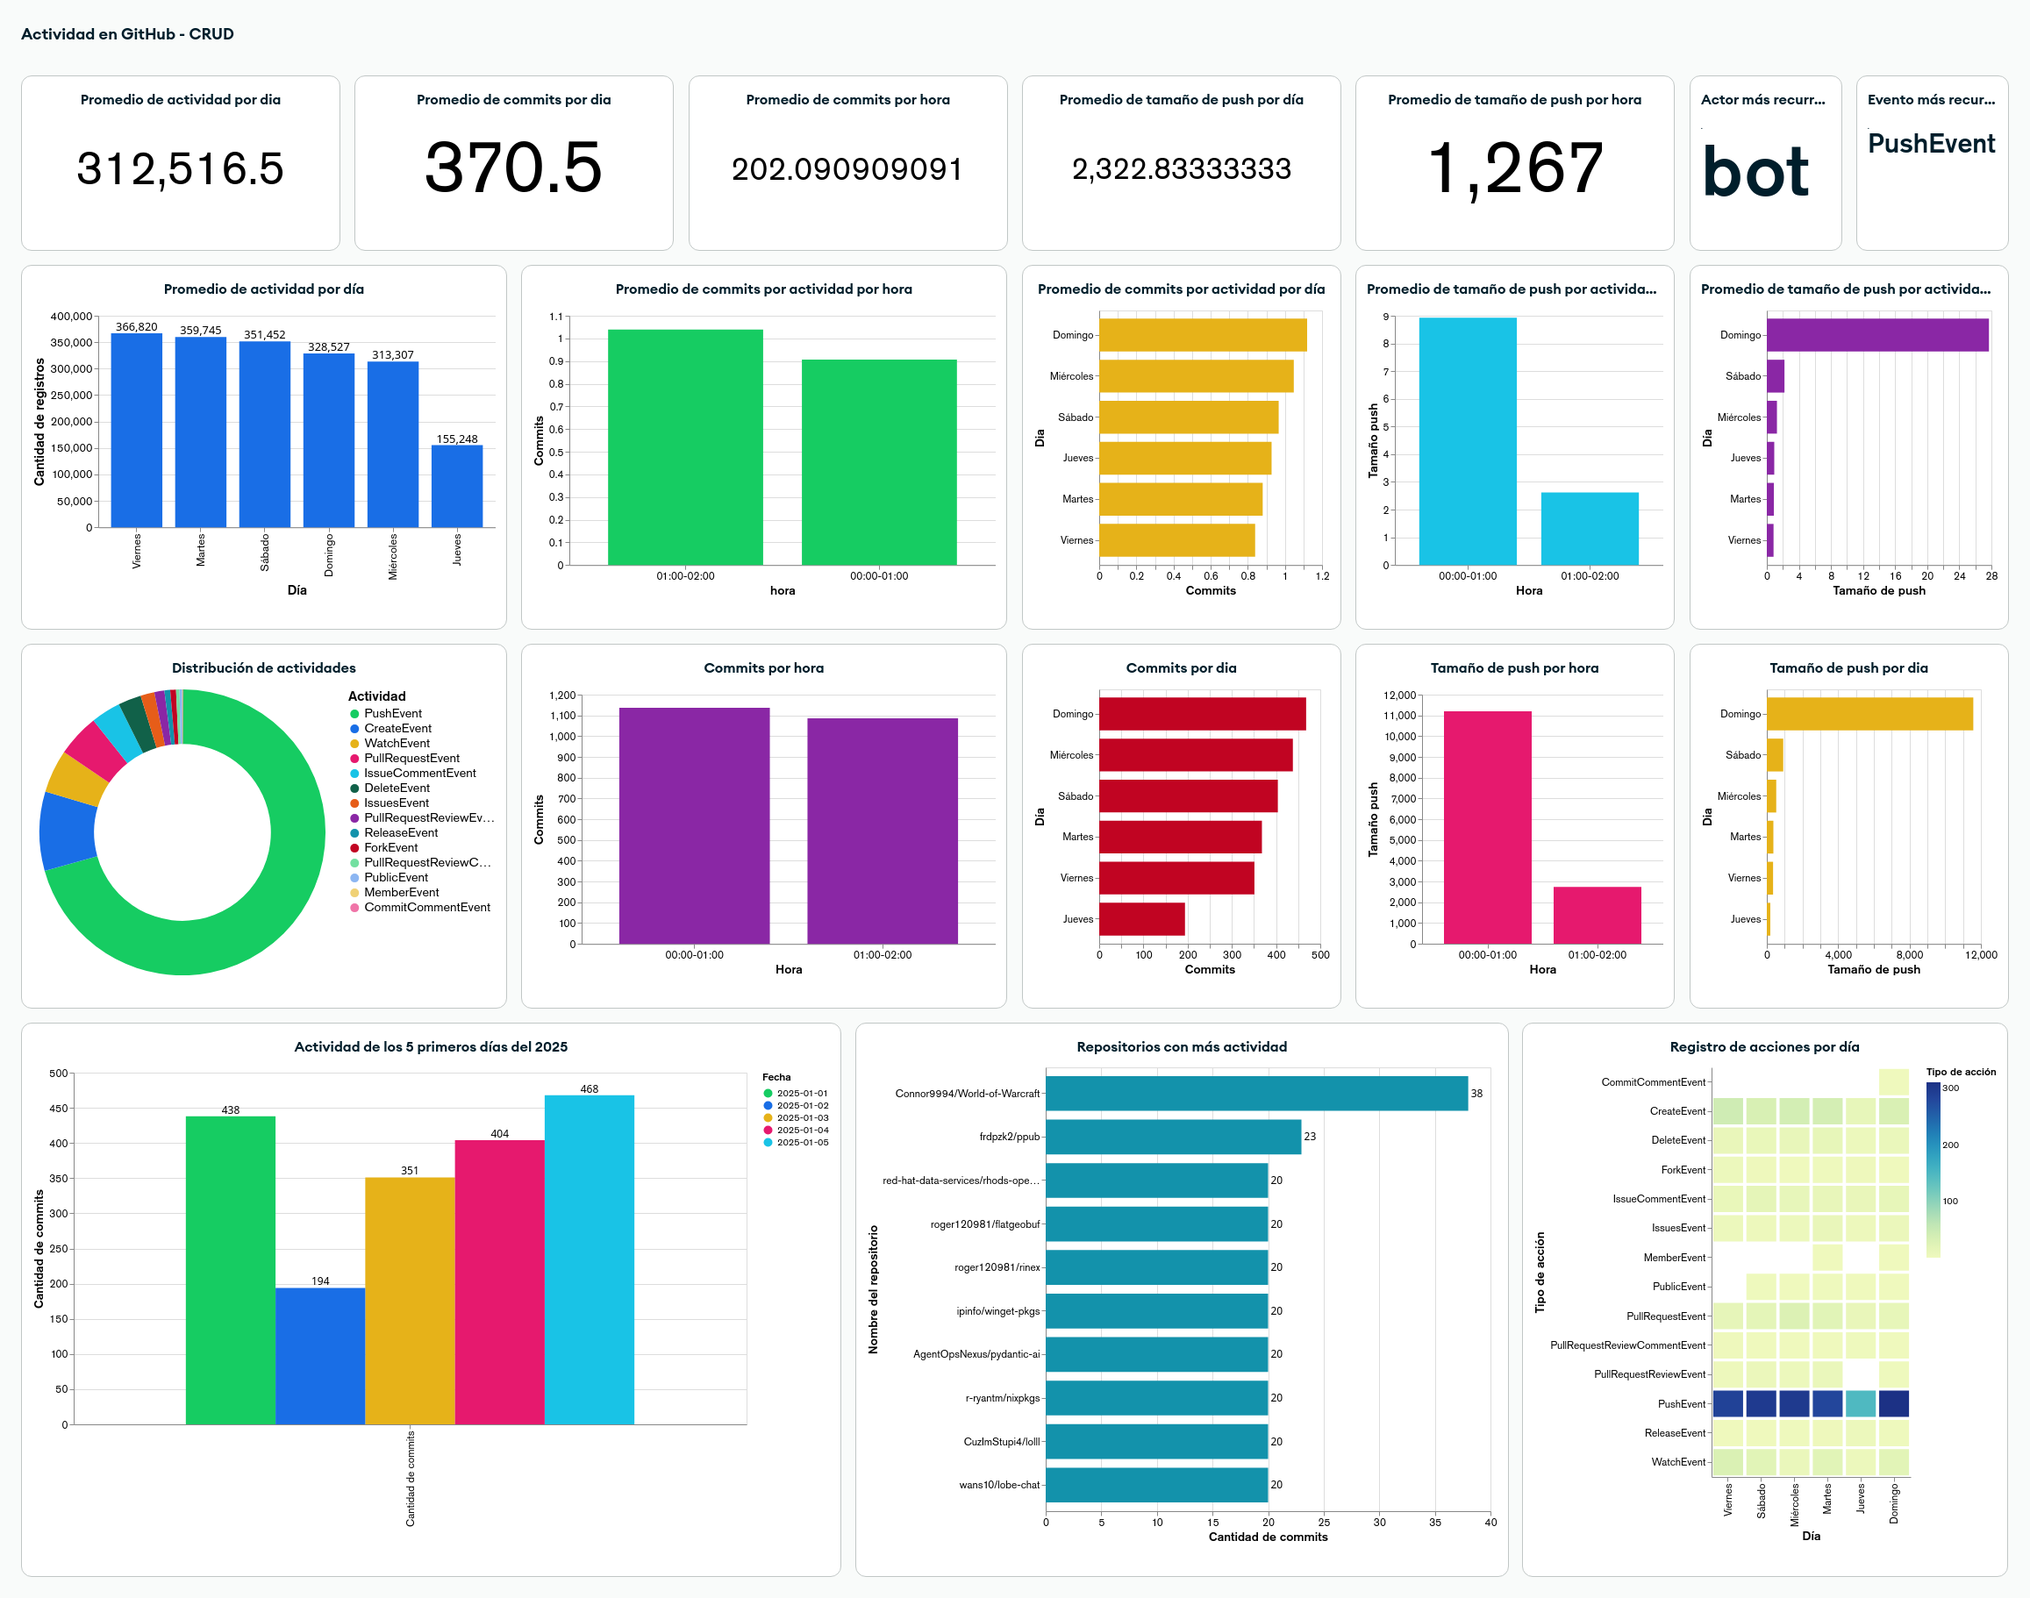
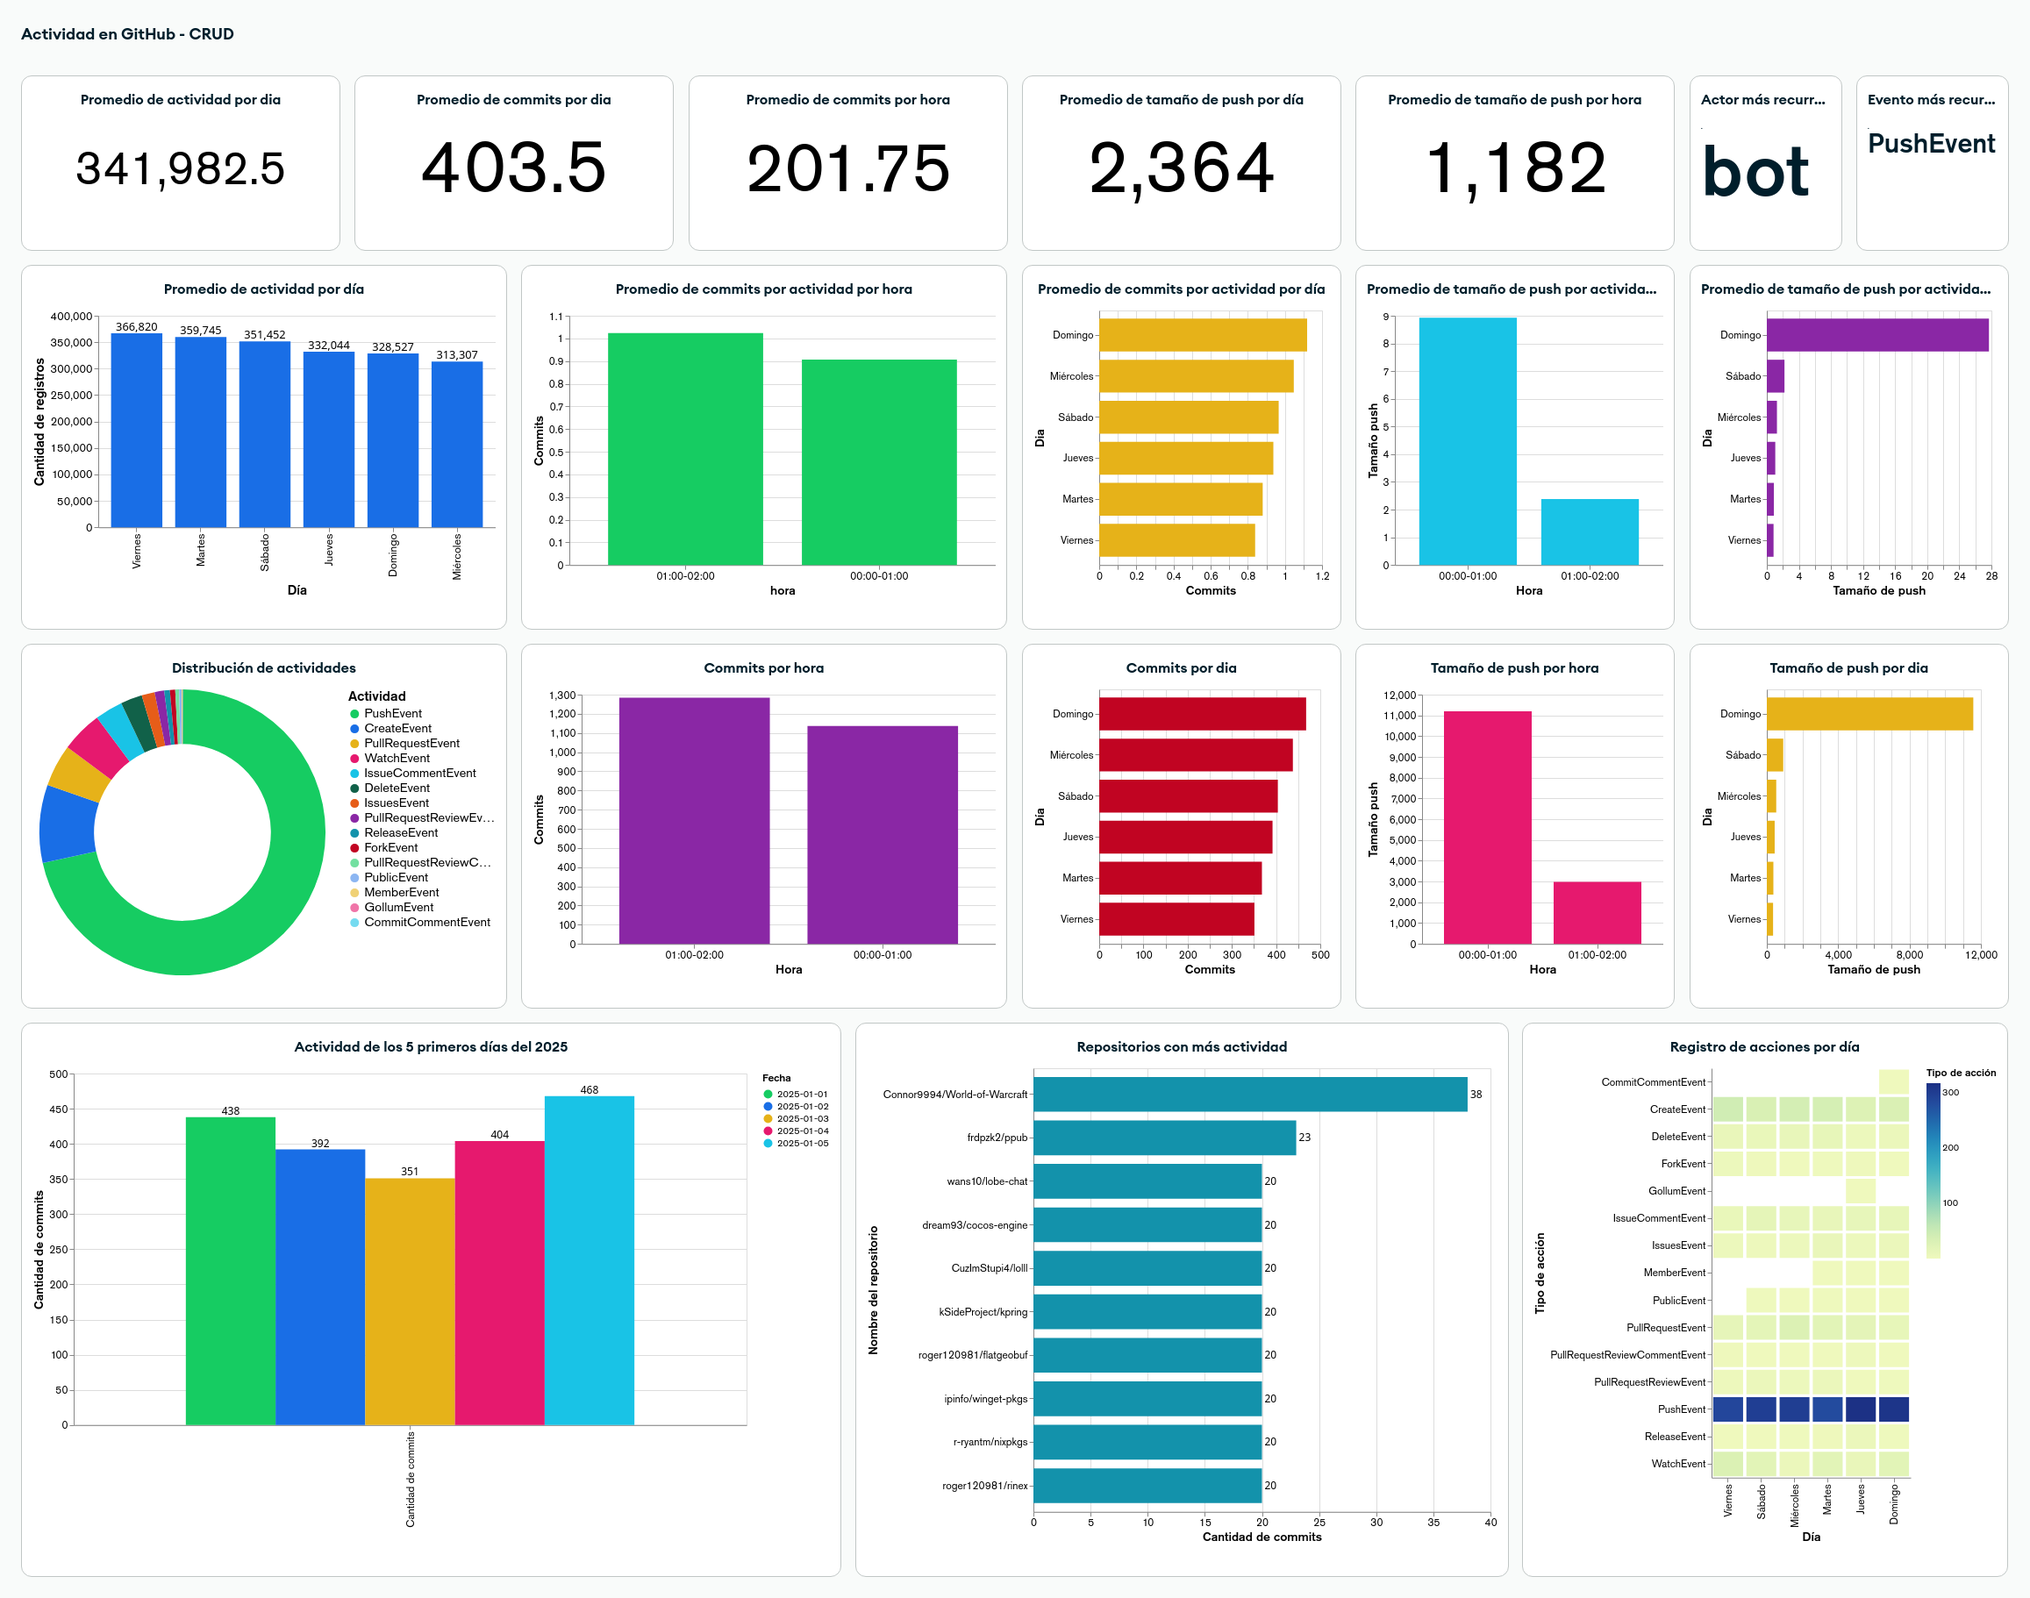
correcion final

diff --git a/crud/mongo_crud.html b/crud/mongo_crud.html
@@ -7628,7 +7628,7 @@ Note: you may need to restart the kernel to use updated packages.
 <div class="jp-Collapser jp-InputCollapser jp-Cell-inputCollapser">
 </div>
 <div class="jp-InputArea jp-Cell-inputArea">
-<div class="jp-InputPrompt jp-InputArea-prompt">In [49]:</div>
+<div class="jp-InputPrompt jp-InputArea-prompt">In [76]:</div>
 <div class="jp-CodeMirrorEditor jp-Editor jp-InputArea-editor" data-type="inline">
 <div class="cm-editor cm-s-jupyter">
 <div class="highlight hl-ipython3"><pre><span></span><span class="n">load_dotenv</span><span class="p">()</span>
@@ -7662,7 +7662,7 @@ Note: you may need to restart the kernel to use updated packages.
 <div class="jp-Collapser jp-InputCollapser jp-Cell-inputCollapser">
 </div>
 <div class="jp-InputArea jp-Cell-inputArea">
-<div class="jp-InputPrompt jp-InputArea-prompt">In [50]:</div>
+<div class="jp-InputPrompt jp-InputArea-prompt">In [77]:</div>
 <div class="jp-CodeMirrorEditor jp-Editor jp-InputArea-editor" data-type="inline">
 <div class="cm-editor cm-s-jupyter">
 <div class="highlight hl-ipython3"><pre><span></span><span class="n">db</span> <span class="o">=</span> <span class="n">client</span><span class="p">[</span><span class="s2">"ProyectoBD-crud"</span><span class="p">]</span>
@@ -8453,14 +8453,14 @@ Cantidad: 2093 - Se imprime uno solo
 <div class="jp-Collapser jp-InputCollapser jp-Cell-inputCollapser">
 </div>
 <div class="jp-InputArea jp-Cell-inputArea">
-<div class="jp-InputPrompt jp-InputArea-prompt">In [61]:</div>
+<div class="jp-InputPrompt jp-InputArea-prompt">In [ ]:</div>
 <div class="jp-CodeMirrorEditor jp-Editor jp-InputArea-editor" data-type="inline">
 <div class="cm-editor cm-s-jupyter">
 <div class="highlight hl-ipython3"><pre><span></span><span class="n">result</span> <span class="o">=</span> <span class="n">dias</span><span class="o">.</span><span class="n">delete_many</span><span class="p">({</span><span class="s2">"dia"</span><span class="p">:</span> <span class="s2">"Lunes"</span><span class="p">})</span>
 <span class="nb">print</span><span class="p">(</span><span class="sa">f</span><span class="s2">"Dias eliminados: </span><span class="si">{</span><span class="n">result</span><span class="o">.</span><span class="n">deleted_count</span><span class="si">}</span><span class="s2">"</span><span class="p">)</span>
 
 <span class="n">dias_eliminados</span> <span class="o">=</span> <span class="n">dias</span><span class="o">.</span><span class="n">count_documents</span><span class="p">({</span><span class="s2">"dia"</span><span class="p">:</span> <span class="p">{</span><span class="s2">"$eq"</span><span class="p">:</span> <span class="s2">"Lunes"</span><span class="p">}})</span>
-<span class="nb">print</span><span class="p">(</span><span class="sa">f</span><span class="s2">"Lunes luego de eliminación </span><span class="si">{</span><span class="n">dias_eliminados</span><span class="si">}</span><span class="s2">"</span><span class="p">)</span>
+<span class="nb">print</span><span class="p">(</span><span class="sa">f</span><span class="s2">"Lunes luego de eliminación: </span><span class="si">{</span><span class="n">dias_eliminados</span><span class="si">}</span><span class="s2">"</span><span class="p">)</span>
 </pre></div>
 </div>
 </div>
@@ -8498,14 +8498,14 @@ Lunes luego de eliminación 0
 <div class="jp-Collapser jp-InputCollapser jp-Cell-inputCollapser">
 </div>
 <div class="jp-InputArea jp-Cell-inputArea">
-<div class="jp-InputPrompt jp-InputArea-prompt">In [62]:</div>
+<div class="jp-InputPrompt jp-InputArea-prompt">In [ ]:</div>
 <div class="jp-CodeMirrorEditor jp-Editor jp-InputArea-editor" data-type="inline">
 <div class="cm-editor cm-s-jupyter">
 <div class="highlight hl-ipython3"><pre><span></span><span class="n">result</span> <span class="o">=</span> <span class="n">metricas</span><span class="o">.</span><span class="n">delete_many</span><span class="p">({</span><span class="s2">"dia"</span><span class="p">:</span> <span class="s2">"Lunes"</span><span class="p">})</span>
 <span class="nb">print</span><span class="p">(</span><span class="sa">f</span><span class="s2">"Metricas eliminadas: </span><span class="si">{</span><span class="n">result</span><span class="o">.</span><span class="n">deleted_count</span><span class="si">}</span><span class="s2">"</span><span class="p">)</span>
 
 <span class="n">metricas_eliminadas</span> <span class="o">=</span> <span class="n">metricas</span><span class="o">.</span><span class="n">count_documents</span><span class="p">({</span><span class="s2">"dia"</span><span class="p">:</span> <span class="p">{</span><span class="s2">"$eq"</span><span class="p">:</span> <span class="s2">"Lunes"</span><span class="p">}})</span>
-<span class="nb">print</span><span class="p">(</span><span class="sa">f</span><span class="s2">"Lunes luego de eliminación </span><span class="si">{</span><span class="n">metricas_eliminadas</span><span class="si">}</span><span class="s2">"</span><span class="p">)</span>
+<span class="nb">print</span><span class="p">(</span><span class="sa">f</span><span class="s2">"Lunes luego de eliminación: </span><span class="si">{</span><span class="n">metricas_eliminadas</span><span class="si">}</span><span class="s2">"</span><span class="p">)</span>
 </pre></div>
 </div>
 </div>
@@ -8543,14 +8543,14 @@ Lunes luego de eliminación 0
 <div class="jp-Collapser jp-InputCollapser jp-Cell-inputCollapser">
 </div>
 <div class="jp-InputArea jp-Cell-inputArea">
-<div class="jp-InputPrompt jp-InputArea-prompt">In [63]:</div>
+<div class="jp-InputPrompt jp-InputArea-prompt">In [ ]:</div>
 <div class="jp-CodeMirrorEditor jp-Editor jp-InputArea-editor" data-type="inline">
 <div class="cm-editor cm-s-jupyter">
 <div class="highlight hl-ipython3"><pre><span></span><span class="n">result</span> <span class="o">=</span> <span class="n">registros</span><span class="o">.</span><span class="n">delete_many</span><span class="p">({</span><span class="s2">"dia"</span><span class="p">:</span> <span class="s2">"Lunes"</span><span class="p">})</span>
 <span class="nb">print</span><span class="p">(</span><span class="sa">f</span><span class="s2">"Registros eliminados: </span><span class="si">{</span><span class="n">result</span><span class="o">.</span><span class="n">deleted_count</span><span class="si">}</span><span class="s2">"</span><span class="p">)</span>
 
 <span class="n">registros_eliminados</span> <span class="o">=</span> <span class="n">registros</span><span class="o">.</span><span class="n">count_documents</span><span class="p">({</span><span class="s2">"dia"</span><span class="p">:</span> <span class="p">{</span><span class="s2">"$eq"</span><span class="p">:</span> <span class="s2">"Lunes"</span><span class="p">}})</span>
-<span class="nb">print</span><span class="p">(</span><span class="sa">f</span><span class="s2">"Lunes luego de eliminación </span><span class="si">{</span><span class="n">registros_eliminados</span><span class="si">}</span><span class="s2">"</span><span class="p">)</span>
+<span class="nb">print</span><span class="p">(</span><span class="sa">f</span><span class="s2">"Lunes luego de eliminación: </span><span class="si">{</span><span class="n">registros_eliminados</span><span class="si">}</span><span class="s2">"</span><span class="p">)</span>
 
 <span class="n">result2</span> <span class="o">=</span> <span class="n">registros</span><span class="o">.</span><span class="n">delete_many</span><span class="p">({</span><span class="s2">"tamano_push"</span><span class="p">:</span> <span class="n">Decimal128</span><span class="p">(</span><span class="s2">"NaN"</span><span class="p">)})</span>
 <span class="nb">print</span><span class="p">(</span><span class="s2">"Registros eliminados con NaN en tamaño push:"</span><span class="p">,</span> <span class="n">result2</span><span class="o">.</span><span class="n">deleted_count</span><span class="p">)</span>
@@ -8652,7 +8652,7 @@ Registros eliminados con NaN en tamaño push: 0
 <div class="jp-Collapser jp-InputCollapser jp-Cell-inputCollapser">
 </div>
 <div class="jp-InputArea jp-Cell-inputArea">
-<div class="jp-InputPrompt jp-InputArea-prompt">In [65]:</div>
+<div class="jp-InputPrompt jp-InputArea-prompt">In [78]:</div>
 <div class="jp-CodeMirrorEditor jp-Editor jp-InputArea-editor" data-type="inline">
 <div class="cm-editor cm-s-jupyter">
 <div class="highlight hl-ipython3"><pre><span></span><span class="n">actividad_dia</span> <span class="o">=</span> <span class="p">[{</span><span class="s2">"$group"</span><span class="p">:</span> <span class="p">{</span> 
@@ -8683,7 +8683,7 @@ Registros eliminados con NaN en tamaño push: 0
 <div class="jp-Collapser jp-InputCollapser jp-Cell-inputCollapser">
 </div>
 <div class="jp-InputArea jp-Cell-inputArea">
-<div class="jp-InputPrompt jp-InputArea-prompt">In [66]:</div>
+<div class="jp-InputPrompt jp-InputArea-prompt">In [79]:</div>
 <div class="jp-CodeMirrorEditor jp-Editor jp-InputArea-editor" data-type="inline">
 <div class="cm-editor cm-s-jupyter">
 <div class="highlight hl-ipython3"><pre><span></span><span class="n">commits_hora</span> <span class="o">=</span> <span class="p">[</span>
@@ -8726,7 +8726,7 @@ Registros eliminados con NaN en tamaño push: 0
 <div class="jp-Collapser jp-InputCollapser jp-Cell-inputCollapser">
 </div>
 <div class="jp-InputArea jp-Cell-inputArea">
-<div class="jp-InputPrompt jp-InputArea-prompt">In [67]:</div>
+<div class="jp-InputPrompt jp-InputArea-prompt">In [80]:</div>
 <div class="jp-CodeMirrorEditor jp-Editor jp-InputArea-editor" data-type="inline">
 <div class="cm-editor cm-s-jupyter">
 <div class="highlight hl-ipython3"><pre><span></span><span class="n">tamano_push_hora</span> <span class="o">=</span> <span class="p">[</span>
@@ -8768,7 +8768,7 @@ Registros eliminados con NaN en tamaño push: 0
 <div class="jp-Collapser jp-InputCollapser jp-Cell-inputCollapser">
 </div>
 <div class="jp-InputArea jp-Cell-inputArea">
-<div class="jp-InputPrompt jp-InputArea-prompt">In [68]:</div>
+<div class="jp-InputPrompt jp-InputArea-prompt">In [81]:</div>
 <div class="jp-CodeMirrorEditor jp-Editor jp-InputArea-editor" data-type="inline">
 <div class="cm-editor cm-s-jupyter">
 <div class="highlight hl-ipython3"><pre><span></span><span class="n">actor</span> <span class="o">=</span> <span class="p">[</span>
@@ -8801,7 +8801,7 @@ Registros eliminados con NaN en tamaño push: 0
 <div class="jp-Collapser jp-InputCollapser jp-Cell-inputCollapser">
 </div>
 <div class="jp-InputArea jp-Cell-inputArea">
-<div class="jp-InputPrompt jp-InputArea-prompt">In [69]:</div>
+<div class="jp-InputPrompt jp-InputArea-prompt">In [82]:</div>
 <div class="jp-CodeMirrorEditor jp-Editor jp-InputArea-editor" data-type="inline">
 <div class="cm-editor cm-s-jupyter">
 <div class="highlight hl-ipython3"><pre><span></span><span class="n">evento</span> <span class="o">=</span> <span class="p">[</span>
@@ -8834,7 +8834,7 @@ Registros eliminados con NaN en tamaño push: 0
 <div class="jp-Collapser jp-InputCollapser jp-Cell-inputCollapser">
 </div>
 <div class="jp-InputArea jp-Cell-inputArea">
-<div class="jp-InputPrompt jp-InputArea-prompt">In [70]:</div>
+<div class="jp-InputPrompt jp-InputArea-prompt">In [83]:</div>
 <div class="jp-CodeMirrorEditor jp-Editor jp-InputArea-editor" data-type="inline">
 <div class="cm-editor cm-s-jupyter">
 <div class="highlight hl-ipython3"><pre><span></span><span class="n">tamano_push_dia</span> <span class="o">=</span> <span class="p">[</span>
@@ -8872,7 +8872,7 @@ Registros eliminados con NaN en tamaño push: 0
 <div class="jp-Collapser jp-InputCollapser jp-Cell-inputCollapser">
 </div>
 <div class="jp-InputArea jp-Cell-inputArea">
-<div class="jp-InputPrompt jp-InputArea-prompt">In [71]:</div>
+<div class="jp-InputPrompt jp-InputArea-prompt">In [84]:</div>
 <div class="jp-CodeMirrorEditor jp-Editor jp-InputArea-editor" data-type="inline">
 <div class="cm-editor cm-s-jupyter">
 <div class="highlight hl-ipython3"><pre><span></span><span class="n">commits_dia</span> <span class="o">=</span> <span class="p">[</span>
@@ -8910,7 +8910,7 @@ Registros eliminados con NaN en tamaño push: 0
 <div class="jp-Collapser jp-InputCollapser jp-Cell-inputCollapser">
 </div>
 <div class="jp-InputArea jp-Cell-inputArea">
-<div class="jp-InputPrompt jp-InputArea-prompt">In [72]:</div>
+<div class="jp-InputPrompt jp-InputArea-prompt">In [ ]:</div>
 <div class="jp-CodeMirrorEditor jp-Editor jp-InputArea-editor" data-type="inline">
 <div class="cm-editor cm-s-jupyter">
 <div class="highlight hl-ipython3"><pre><span></span><span class="n">kpis_insert</span> <span class="o">=</span> <span class="p">{</span><span class="s2">"prom_actividad_real_por_dia"</span><span class="p">:</span> <span class="n">actividad_dia</span><span class="p">,</span> 
@@ -8931,10 +8931,11 @@ Registros eliminados con NaN en tamaño push: 0
 <div class="jp-Collapser jp-OutputCollapser jp-Cell-outputCollapser">
 </div>
 <div class="jp-OutputArea jp-Cell-outputArea">
-<div class="jp-OutputArea-child jp-OutputArea-executeResult">
-<div class="jp-OutputPrompt jp-OutputArea-prompt">Out[72]:</div>
-<div class="jp-RenderedText jp-OutputArea-output jp-OutputArea-executeResult" data-mime-type="text/plain" tabindex="0">
-<pre>InsertOneResult(ObjectId('6923343ea742ecd28945e0b4'), acknowledged=True)</pre>
+<div class="jp-OutputArea-child">
+<div class="jp-OutputPrompt jp-OutputArea-prompt"></div>
+<div class="jp-RenderedText jp-OutputArea-output" data-mime-type="text/plain" tabindex="0">
+<pre>{'prom_actividad_real_por_dia': 341982.5, 'prom_commits_muestra_por_dia': 403.5, 'prom_commits_muestra_por_hora': 201.75, 'prom_tamano_push_muestra_por_hora': 1182.0, 'prom_tamano_push_muestra_por_dia': 2364.0, 'actor_mas_recurrente_muestra': 'bot', 'evento_mas_recurrente_muestra': 'PushEvent'}
+</pre>
 </div>
 </div>
 </div>
@@ -9006,7 +9007,7 @@ Registros eliminados con NaN en tamaño push: 0
 <div class="jp-Collapser jp-InputCollapser jp-Cell-inputCollapser">
 </div>
 <div class="jp-InputArea jp-Cell-inputArea">
-<div class="jp-InputPrompt jp-InputArea-prompt">In [74]:</div>
+<div class="jp-InputPrompt jp-InputArea-prompt">In [75]:</div>
 <div class="jp-CodeMirrorEditor jp-Editor jp-InputArea-editor" data-type="inline">
 <div class="cm-editor cm-s-jupyter">
 <div class="highlight hl-ipython3"><pre><span></span><span class="o">!</span>jupyter<span class="w"> </span>nbconvert<span class="w"> </span>--to<span class="w"> </span>html<span class="w"> </span><span class="s2">"mongo_crud.ipynb"</span>
@@ -9023,7 +9024,7 @@ Registros eliminados con NaN en tamaño push: 0
 <div class="jp-OutputPrompt jp-OutputArea-prompt"></div>
 <div class="jp-RenderedText jp-OutputArea-output" data-mime-type="text/plain" tabindex="0">
 <pre>[NbConvertApp] Converting notebook mongo_crud.ipynb to html
-[NbConvertApp] Writing 397347 bytes to mongo_crud.html
+[NbConvertApp] Writing 361955 bytes to mongo_crud.html
 </pre>
 </div>
 </div>
